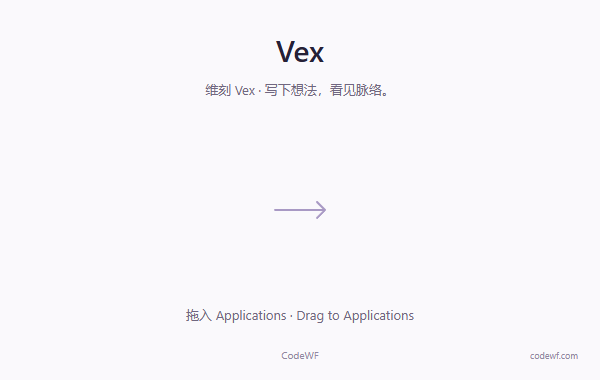
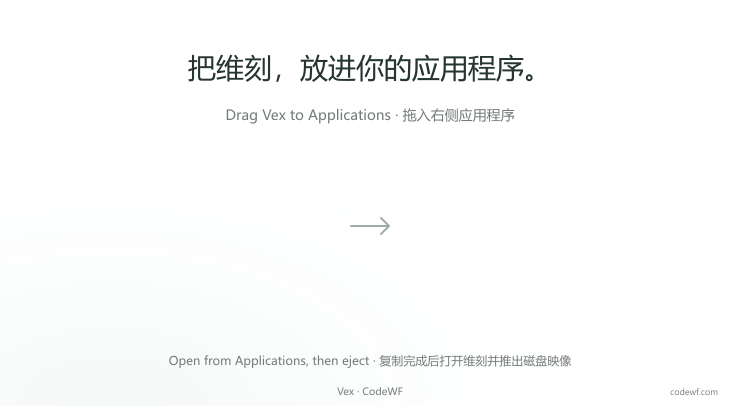
功能(安装镜像)：按新原型统一 macOS 拖放背景与布局

diff --git a/scripts/installer/macos/README.md b/scripts/installer/macos/README.md
@@ -2,14 +2,14 @@
 
 主源：CodeWF.Avalonia 的 `scripts/installer/macos`。各产品仓内保存自包含副本，`source-sha256.json` 记录源文件哈希。目录内文本固定 LF、PNG 标记为二进制，避免跨平台检出改变源哈希。打包时不访问其他仓库或下载依赖。
 
-现有打包脚本继续负责 `.app`、产品图标、资源、签名和校验文件。本层使用系统 `hdiutil` 创建可写 HFS+ 临时镜像，用 `osascript` 配置该镜像 Finder 窗口为 600×410、80 点图标、固定应用与 Applications 位置，再转换为 UDZO 并校验。任何布局、挂载、压缩或校验失败都会终止打包；不会静默发布没有品牌层的镜像。需要可用的 macOS Finder 会话及相应自动化权限。
+现有打包脚本继续负责 `.app`、产品图标、资源、签名和校验文件。本层使用系统 `hdiutil` 创建可写 HFS+ 临时镜像，用 `osascript` 配置该镜像 Finder 窗口为 740×436、88 点图标、固定应用与 Applications 位置，再转换为 UDZO 并校验。任何布局、挂载、压缩或校验失败都会终止打包；不会静默发布没有品牌层的镜像。需要可用的 macOS Finder 会话及相应自动化权限。
 
 Finder 或 Spotlight 短暂占用镜像时，正常卸载及 EXIT 清理各最多尝试五次，失败间隔为 1、2、4、8 秒。通过系统 `plutil` 与 JXA 扫描 `hdiutil attach -plist` 返回的唯一整盘设备，始终按该设备正常 `detach`；即使卷已卸载、原挂载点消失，仍可继续分离设备。不强制卸载、不结束 Finder。卸载返回失败时，再由 `hdiutil info -plist` 和系统 JXA/Foundation 核对本次镜像路径与设备，仅读取所需字段，避开 `image-alias` 等二进制值：确实已分离才继续压缩，仍连接就有限重试；状态查询或结构解析失败则终止并保留临时目录。正常卸载耗尽次数后，本次打包仍失败且不转换镜像；清理会再次尝试卸载。若仍被占用，保留临时工作目录、挂载内容及其路径，避免误删挂载中的文件。
 
-背景采用 Vex 极简方案：600 × 380 的浅色背景，仅保留 Vex、品牌 Slogan、拖放箭头和简短提示。Finder 窗口宽 600，应用与 Applications 图标为 80 像素，位置分别为 (170, 210)、(430, 210)。页脚显示 CodeWF 和静态官网文字 `codewf.com`。箭头指向系统 Applications 目标，复制、覆盖和系统权限对话框仍由 Finder 处理。
+背景按本仓原型采用 740×406 白纸与左下淡绿渐变，保留安装标题、拖放箭头及完成提示。应用与 Applications 图标为 88 点，位置分别为 (235, 220)、(505, 220)。页脚显示 `Vex · CodeWF` 和静态官网文字 `codewf.com`。箭头指向系统 Applications 目标，复制、覆盖和系统权限对话框仍由 Finder 处理。
 
 默认背景为简洁中英双语。可在打包时设 `CODEWF_DMG_LANGUAGE=en` 或 `zh` 选择单语言背景；合法值为 `bilingual`、`en`、`zh`。DMG 背景是静态资源，无法在用户挂载时随系统语言切换；Finder 自己的菜单、文件名显示和权限交互遵循系统语言。
 
-维护背景时运行 `node scripts/installer/macos/render-backgrounds.cjs`，使用已配置的 Playwright 与 Chromium 生成三组 SVG / PNG；可用 `VEX_BROWSER_EXECUTABLE` 指定本地浏览器。随后重新计算本目录来源清单。正式打包只读取已提交 PNG，不需要 Node、Playwright 或在线下载，也不读取软件 HTML 原型。
+维护背景时运行 `node scripts/installer/macos/render-backgrounds.cjs`，使用 `sharp` 从 SVG 生成三组 PNG。随后重新计算本目录来源清单。正式打包只读取已提交 PNG，不需要 Node、图像处理依赖或在线下载，也不读取软件 HTML 原型。
 
 `tests/branded-dmg-test.sh` 用受控工具检查三语言 CodeWF 品牌及官网文字、成功流程、参数、语言资源、短暂占用恢复、卷已卸载但设备仍连接、设备实际已分离、状态查询/解析失败、永久占用保留、EXIT 清理及挂载/布局/转换/验证失败传播。它不调用本机 macOS 工具、不挂载镜像、不操作桌面；JXA 状态解析在可用 Node 环境还会用真实 JSON 夹具执行核对。Windows 的这些测试与语法检查不证明真实 Finder 布局、Retina、多显示器、Gatekeeper、公证或用户安装已验收；正式发布还需在 macOS 交互会话生成并挂载检查。

diff --git a/docs/development/原型实现验收-20261020.md b/docs/development/原型实现验收-20261020.md
@@ -25,5 +25,7 @@
    - 草稿与外部版本：恢复先显示来源与全文，确认后创建独立未保存文档，当前文章先走未保存确认。文件监听只提示和提供双版本比较；保留、另存副本、载入由用户选择，载入可撤销。退出支持保留草稿，写入失败保持窗口。草稿按进程隔离，待写失败保留快照，损坏原始数据不删除，磁盘更新不会丢弃旧草稿。
    - 验证：真实文件监听、取消比较、显式保留、外部载入及撤销、恢复预览/取消/独立恢复、保存和草稿失败阻止关窗、成功保留草稿退出；真实草稿目录失败重试、跨进程隔离、新磁盘旧草稿、损坏与有效草稿共存通过。
    - 视觉回归修复：鸣谢页使用独立紧凑标题留白，维持一屏；浅色危险操作提高文字对比度。32 组配色/明暗及按钮状态矩阵、完整内容 workspace、工作台引导与共享撤销回归通过。
-4. 待完成：Windows / Linux / macOS 安装流程与原型对照、构建与可执行验证。
+4. 安装流程：macOS 背景按本仓新原型调整为 740×406 白纸、淡绿渐变、拖放箭头与完成提示；Finder 采用 88 点图标及对应位置。资源生成改为 SVG 直接栅格化，正式打包仍只读取离线 PNG。
+   - 验证：三语言资源、打包参数、符号排除、暂时占用恢复、设备卸载、状态解析失败保留及失败传播的受控回归通过；Windows 上的测试不等同真实 Finder、Gatekeeper 或公证验收。
+   - 待完成：Windows / Linux 安装流程与原型对照、构建与可执行验证。
 5. 待完成：全量相关验证、独立产物、版本与发布标签。
